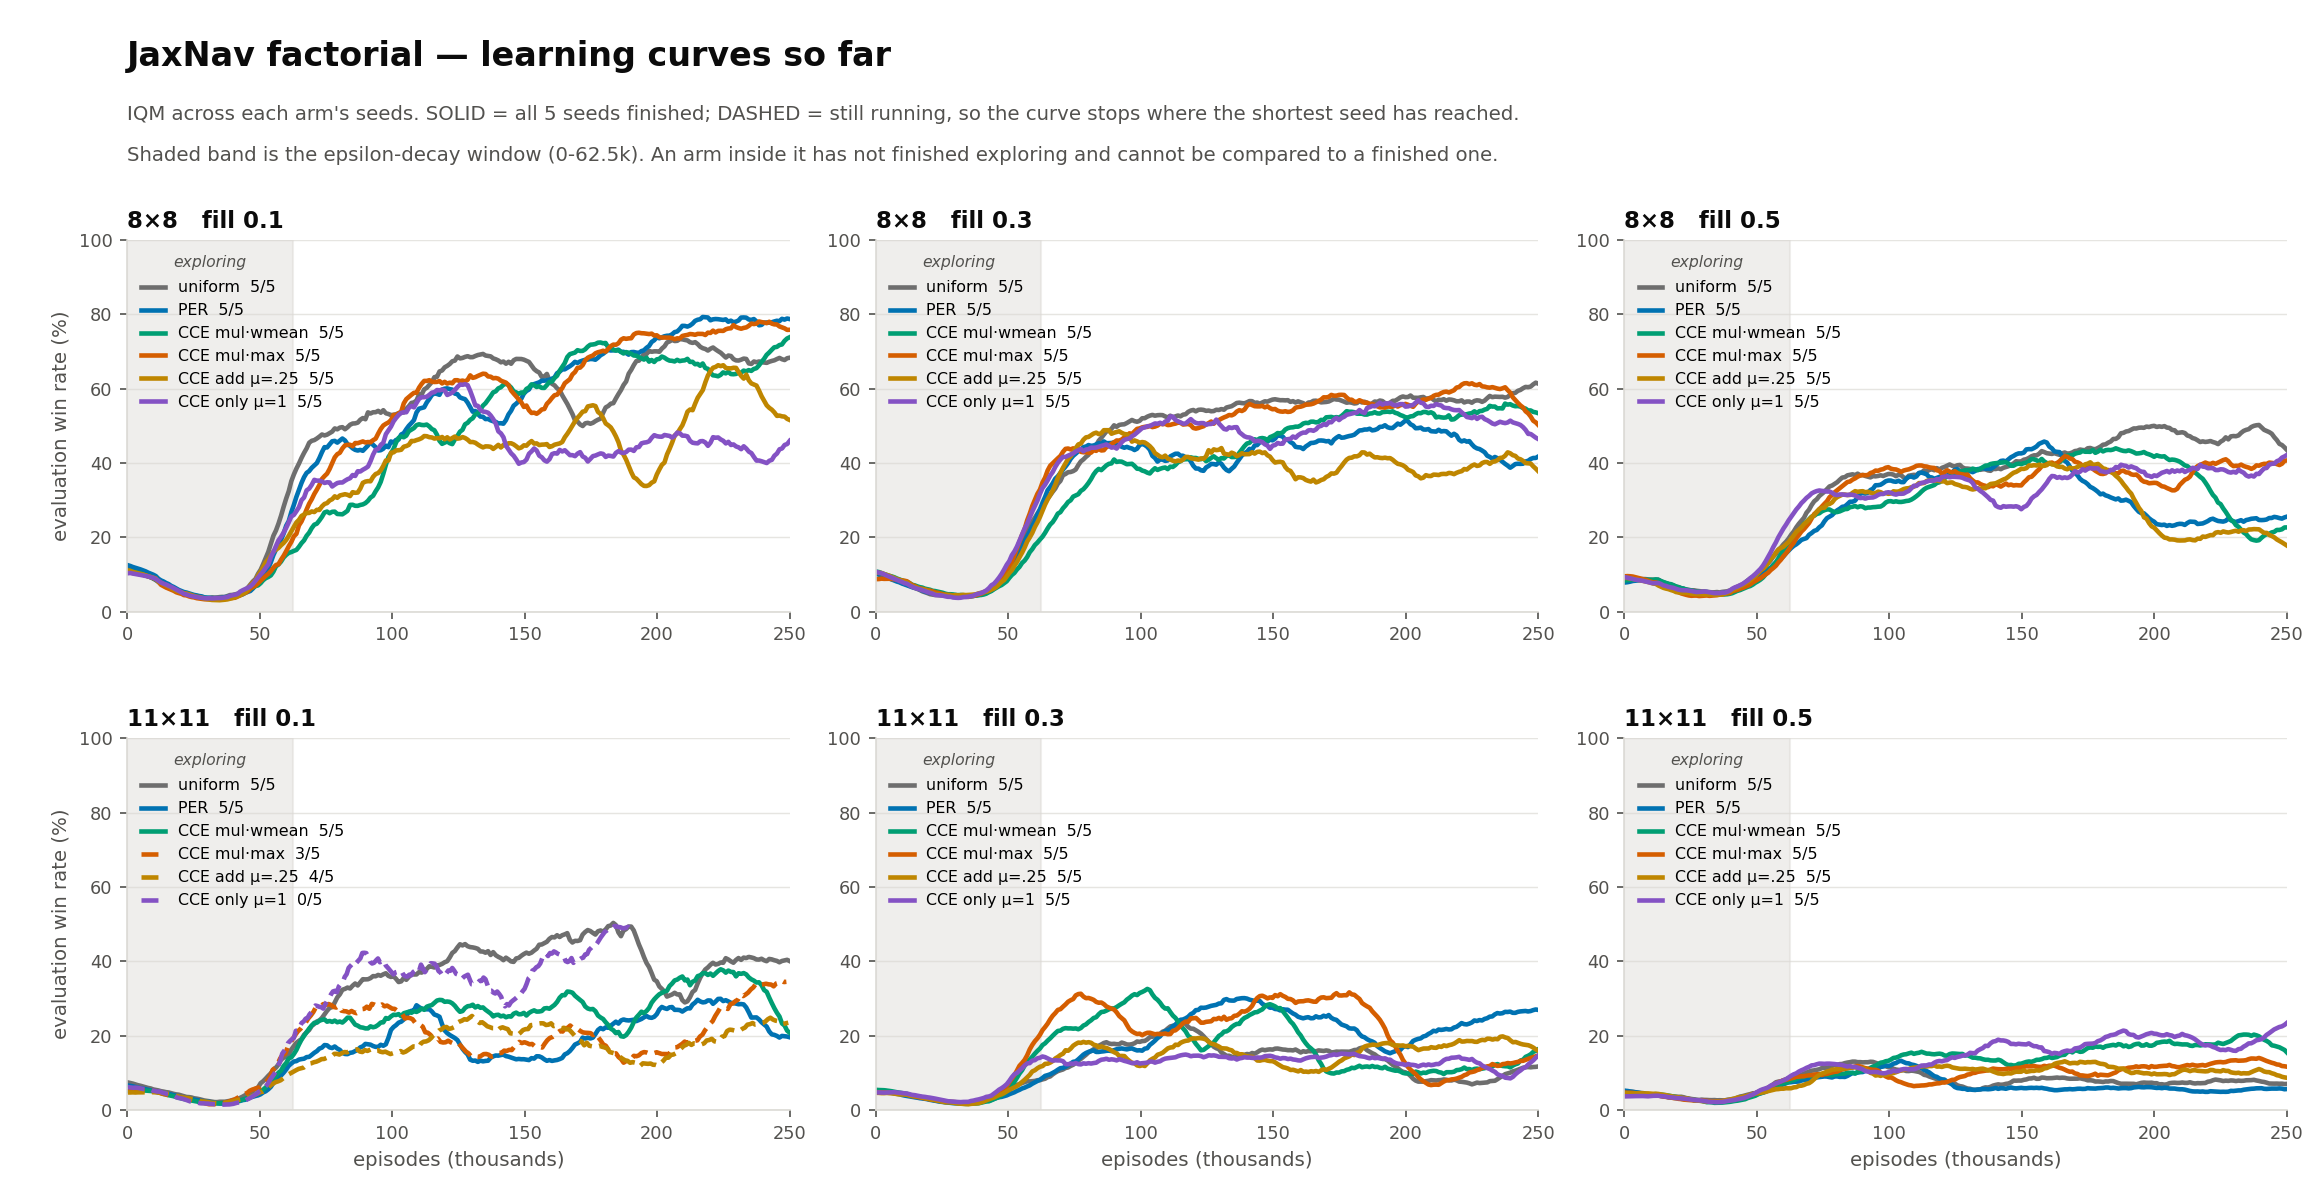
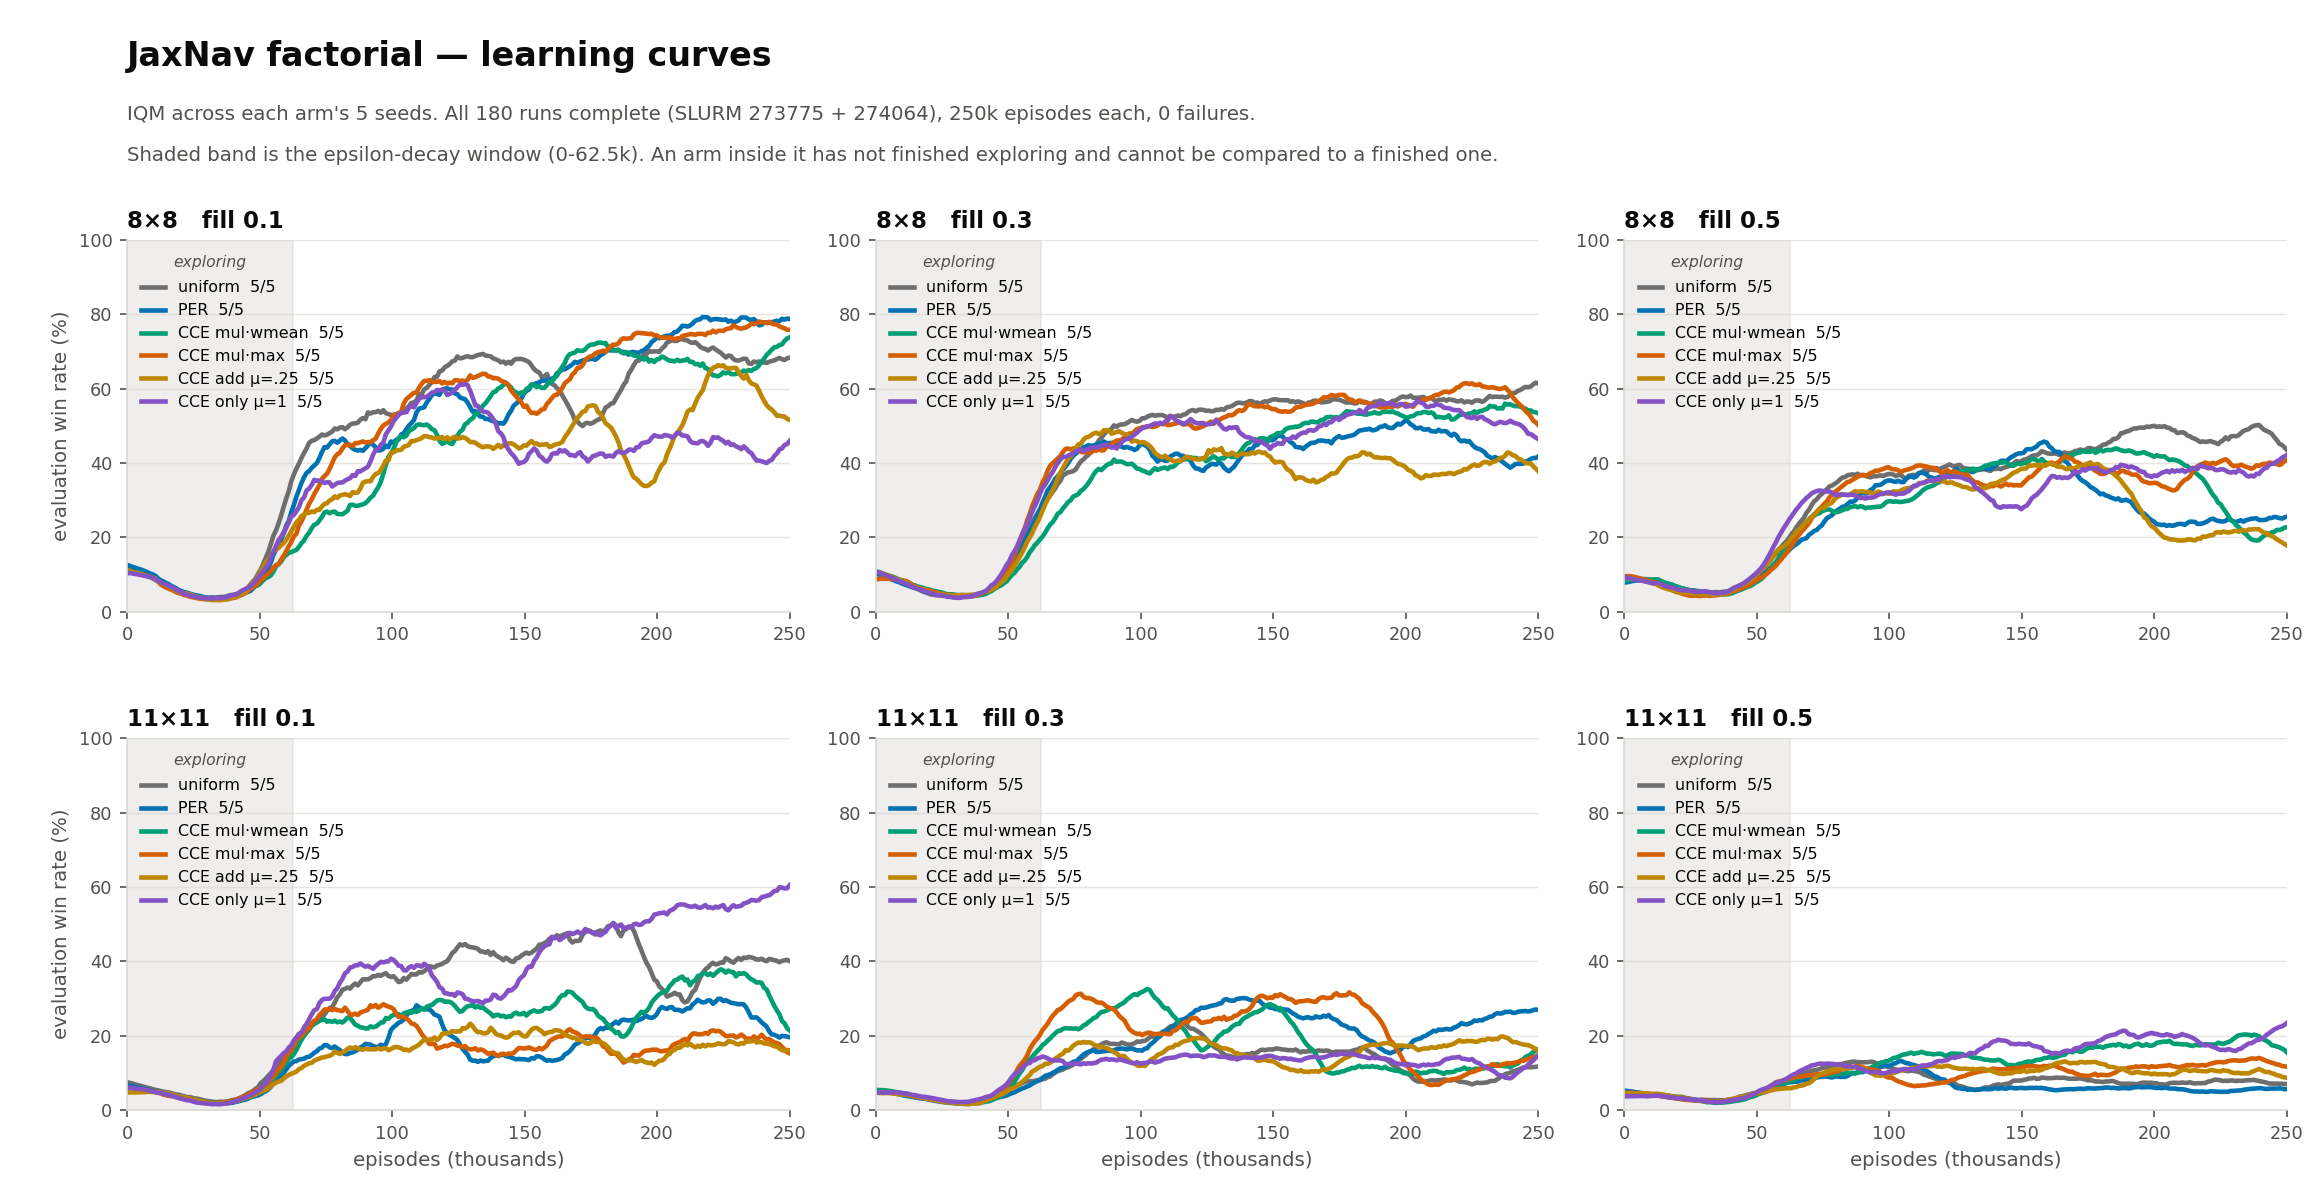
Figures: eval episode length per factorial cell; curves title now that all 180 runs are in
Win rate says whether the robot arrived; it cannot say HOW it failed. Episode
length can, because a JaxNav episode ends on `collisions | goal_reached |
time_up`:

    short + low win rate  -> crashing
    long  + low win rate  -> wandering to the 200-step cap

New `jaxnav_factorial_length.py` draws mean eval episode length on the same 2x3
grid and colour scheme as the win-rate figure, so the two stack. Bold = IQM over
an arm's 5 seeds, thin = the individual seeds, since the IQM hides the split
between a seed that crashes fast and one that wanders.

avg_return is deliberately NOT plotted: under sparse_reward with goal_rew=1.0
and coll_rew=0.0 it equals win_rate exactly (verified max |diff| = 0 across all
180 runs), so it is a duplicate of the win-rate figure.

Also drops "so far" from the curves title -- it was written while the sweep was
still in flight. All 180 runs are complete (arrays 273775 + 274064, 250k
episodes each, 0 failures), and the subtitle now says so instead of explaining
solid-vs-dashed lines that no longer appear.

Claude-Session: https://claude.ai/code/session_01LTwz2FieXcd96TvbSkaRAQ

diff --git a/src/counterfactual_rl/analysis/claim2/jaxnav_factorial_length.py b/src/counterfactual_rl/analysis/claim2/jaxnav_factorial_length.py
@@ -1,14 +1,20 @@
-"""Learning curves for the 6-cell JaxNav factorial, one panel per cell.
+"""Mean EVAL EPISODE LENGTH for the 6-cell JaxNav factorial, one panel per cell.
 
-IQM across an arm's seeds on a common episode grid, so partially-trained arms
-are visible for exactly as far as they have run. Arms still inside the epsilon
-decay window (62.5k of 250k) are NOT comparable to finished ones -- the curve
-shows that directly, which is the point of drawing it rather than tabulating
-final numbers.
+Companion to `jaxnav_factorial_curves.py`, same grid and same colours, so the two
+figures stack. Win rate alone cannot say HOW a policy fails; length can, because
+an episode ends on `collisions | goal_reached | time_up` (jaxmarl jaxnav_env):
+
+    short  + low win rate  ->  the robot is crashing
+    long   + low win rate  ->  the robot is wandering to the 200-step cap
+    short  + high win rate ->  the robot is going straight to the goal
+
+Column 5 of metrics.log, already written by every run -- no re-evaluation needed.
+(Column 6, avg_return, is NOT plotted: under sparse_reward with goal_rew=1.0 and
+coll_rew=0.0 it equals win_rate exactly -- verified max |diff| = 0 over all 180
+runs -- so it is a duplicate of the win-rate figure.)
 
 Reads run dirs via the manifest's `run_dir`, not `job_id`: SLURM array tasks are
 allocated a distinct JobIDRaw and the trainer names its directory after that.
-Run slurm/resolve_manifest.py first.
 """
 import json
 import os
@@ -24,9 +30,9 @@ HERE = os.path.dirname(os.path.abspath(__file__))
 ROOT = os.path.abspath(os.path.join(HERE, "..", "..", "..", ".."))
 MANIFEST = os.path.join(ROOT, "docs/figures/real/claim2/jaxnav/data/manifest_factorial.json")
 RUNS = os.path.join(ROOT, "src/counterfactual_rl/agents/jax_nav/runs")
-OUT = os.path.join(ROOT, "docs/figures/real/claim2/jaxnav/fig_factorial_curves.png")
+OUT = os.path.join(ROOT, "docs/figures/real/claim2/jaxnav/fig_factorial_length.png")
 
-TARGET, DECAY = 250_000, 62_500
+TARGET, DECAY, MAX_STEPS = 250_000, 62_500, 200
 SIZES, FILLS = [(8, 8), (11, 11)], [0.1, 0.3, 0.5]
 ARMS = ["uniform", "per", "cce_wmean", "cce_max", "cce_add", "cce_only"]
 COL = {"uniform": "#6e6e6e", "per": "#0072b2", "cce_wmean": "#009e73",
@@ -37,6 +43,7 @@ INK, INK2, GRID = "#0b0b0b", "#52514e", "#dcdad5"
 
 
 def curves():
+    """(cell, arm) -> [(episodes, avg_length), ...] one entry per seed."""
     man = json.load(open(MANIFEST))
     out = {}
     for rec in man.values():
@@ -46,17 +53,17 @@ def curves():
         f = os.path.join(RUNS, str(rd), "metrics.log")
         if not os.path.exists(f):
             continue
-        ep, wr = [], []
+        ep, ln = [], []
         for line in open(f):
             if line.startswith("#") or not line.strip():
                 continue
             p = line.split()
-            if len(p) < 5 or p[0] == "episode":
+            if len(p) < 6 or p[0] == "episode":
                 continue
-            ep.append(float(p[0])); wr.append(float(p[3].rstrip("%")) / 100)
+            ep.append(float(p[0])); ln.append(float(p[4]))
         if len(ep) > 3:
             out.setdefault((rec["cell"], rec["arm"]), []).append(
-                (np.array(ep), np.array(wr)))
+                (np.array(ep), np.array(ln)))
     return out
 
 
@@ -73,53 +80,41 @@ def main():
     fig, axes = plt.subplots(2, 3, figsize=(15.4, 8.0))
     fig.subplots_adjust(left=.055, right=.99, top=.80, bottom=.075, hspace=.34, wspace=.13)
 
+    grid = np.linspace(250, TARGET, 260)
     for r, size in enumerate(SIZES):
         for c, fill in enumerate(FILLS):
             cell = f"{size[0]}x{size[1]}_f{str(fill).replace('0.','0')}"
             ax = axes[r][c]
-            any_data = False
             for arm in ARMS:
                 runs = data.get((cell, arm), [])
                 if not runs:
                     continue
-                any_data = True
-                # Extend as far as at least MIN_SEEDS have actually run, taking
-                # the IQM over whichever seeds have reached each point. Using
-                # min(endpoint) truncates a whole arm to its slowest seed --
-                # which buried cce_only at 79k while 4 of its seeds were past
-                # 90k. Seeds that have not reached a point simply do not vote.
-                # clamp to how many seeds have actually started -- an arm with
-                # 1 or 2 running seeds would otherwise index off the end
-                MIN_SEEDS = min(len(runs), max(3, (len(runs) + 1) // 2))
-                ends = sorted(e[-1] for e, _ in runs)
-                hi = ends[len(ends) - MIN_SEEDS]
-                grid = np.linspace(250, hi, 260)
-                cols = []
-                for g in grid:
-                    vals = [np.interp(g, e, w) for e, w in runs if e[-1] >= g]
-                    cols.append(iqm(np.array(vals)) if len(vals) >= 2 else np.nan)
-                y = smooth(np.array(cols))
-                done = sum(1 for e, _ in runs if e[-1] >= TARGET * .96)
-                ax.plot(grid / 1000, y * 100, color=COL[arm], lw=2.2,
-                        ls="-" if done == len(runs) else "--",
-                        label=f"{LAB[arm]}  {done}/{len(runs)}")
+                # thin per-seed traces: the IQM hides the split between a seed
+                # that crashes fast and one that wanders to the cap, and that
+                # split is the reason for drawing this figure at all.
+                for e, l in runs:
+                    ax.plot(grid / 1000, smooth(np.interp(grid, e, l)),
+                            color=COL[arm], lw=.7, alpha=.20, zorder=1)
+                cols = [iqm(np.array([np.interp(g, e, l) for e, l in runs]))
+                        for g in grid]
+                ax.plot(grid / 1000, smooth(np.array(cols)), color=COL[arm],
+                        lw=2.2, label=f"{LAB[arm]}  {len(runs)}/5", zorder=3)
+            ax.axhline(MAX_STEPS, color="#b02020", lw=1.0, ls=(0, (5, 4)), zorder=2)
+            ax.text(TARGET / 1000 - 3, MAX_STEPS - 4, "timeout cap (200)", ha="right",
+                    va="top", fontsize=7.5, color="#b02020")
             ax.axvspan(0, DECAY / 1000, color=GRID, alpha=.45, zorder=0)
-            if any_data:
-                ax.text(DECAY / 1000 / 2, 96, "exploring", ha="center", va="top",
-                        fontsize=7.5, color=INK2, style="italic")
-            ax.set_xlim(0, TARGET / 1000); ax.set_ylim(0, 100)
+            ax.text(DECAY / 1000 / 2, 203, "exploring", ha="center", va="top",
+                    fontsize=7.5, color=INK2, style="italic")
+            ax.set_xlim(0, TARGET / 1000); ax.set_ylim(40, 210)
             ax.set_title(f"{size[0]}×{size[1]}   fill {fill}",
                          fontsize=11, fontweight="bold", color=INK, loc="left", pad=6)
-            if any_data:
-                ax.legend(frameon=False, fontsize=7.6, loc="upper left",
-                          bbox_to_anchor=(0, .93), handlelength=1.5)
-            else:
-                ax.text(.5, .5, "not started", transform=ax.transAxes, ha="center",
-                        va="center", fontsize=11, color="#b6b1a9")
+            ax.legend(frameon=False, fontsize=7.6, loc="lower left",
+                      bbox_to_anchor=(0, .01), handlelength=1.5, ncol=2,
+                      columnspacing=1.0)
             if r == 1:
                 ax.set_xlabel("episodes (thousands)", fontsize=9.5, color=INK2)
             if c == 0:
-                ax.set_ylabel("evaluation win rate (%)", fontsize=9.5, color=INK2)
+                ax.set_ylabel("mean eval episode length (steps)", fontsize=9.5, color=INK2)
             for sp in ("top", "right"):
                 ax.spines[sp].set_visible(False)
             for sp in ("left", "bottom"):
@@ -127,15 +122,15 @@ def main():
             ax.tick_params(colors=INK2, labelsize=8.5)
             ax.grid(axis="y", color=GRID, lw=.7, alpha=.7); ax.set_axisbelow(True)
 
-    fig.text(.055, .945, "JaxNav factorial — learning curves",
+    fig.text(.055, .945, "JaxNav factorial — how long an evaluation episode lasts",
              fontsize=16, fontweight="bold", color=INK)
     fig.text(.055, .900,
-             "IQM across each arm's 5 seeds. All 180 runs complete (SLURM 273775 + 274064), "
-             "250k episodes each, 0 failures.",
+             "Bold = IQM over the arm's 5 seeds; thin = the individual seeds. Same 180 runs, "
+             "same colours and grid as the win-rate figure.",
              fontsize=9.5, color=INK2)
     fig.text(.055, .866,
-             "Shaded band is the epsilon-decay window (0-62.5k). An arm inside it has not "
-             "finished exploring and cannot be compared to a finished one.",
+             "An episode ends on crash, goal, or the 200-step cap. Falling length = reaching "
+             "the goal faster. Length pinned near 200 with a low win rate = wandering, not crashing.",
              fontsize=9.5, color=INK2)
     fig.savefig(OUT, dpi=150, facecolor="white")
     print(f"wrote {OUT}")
